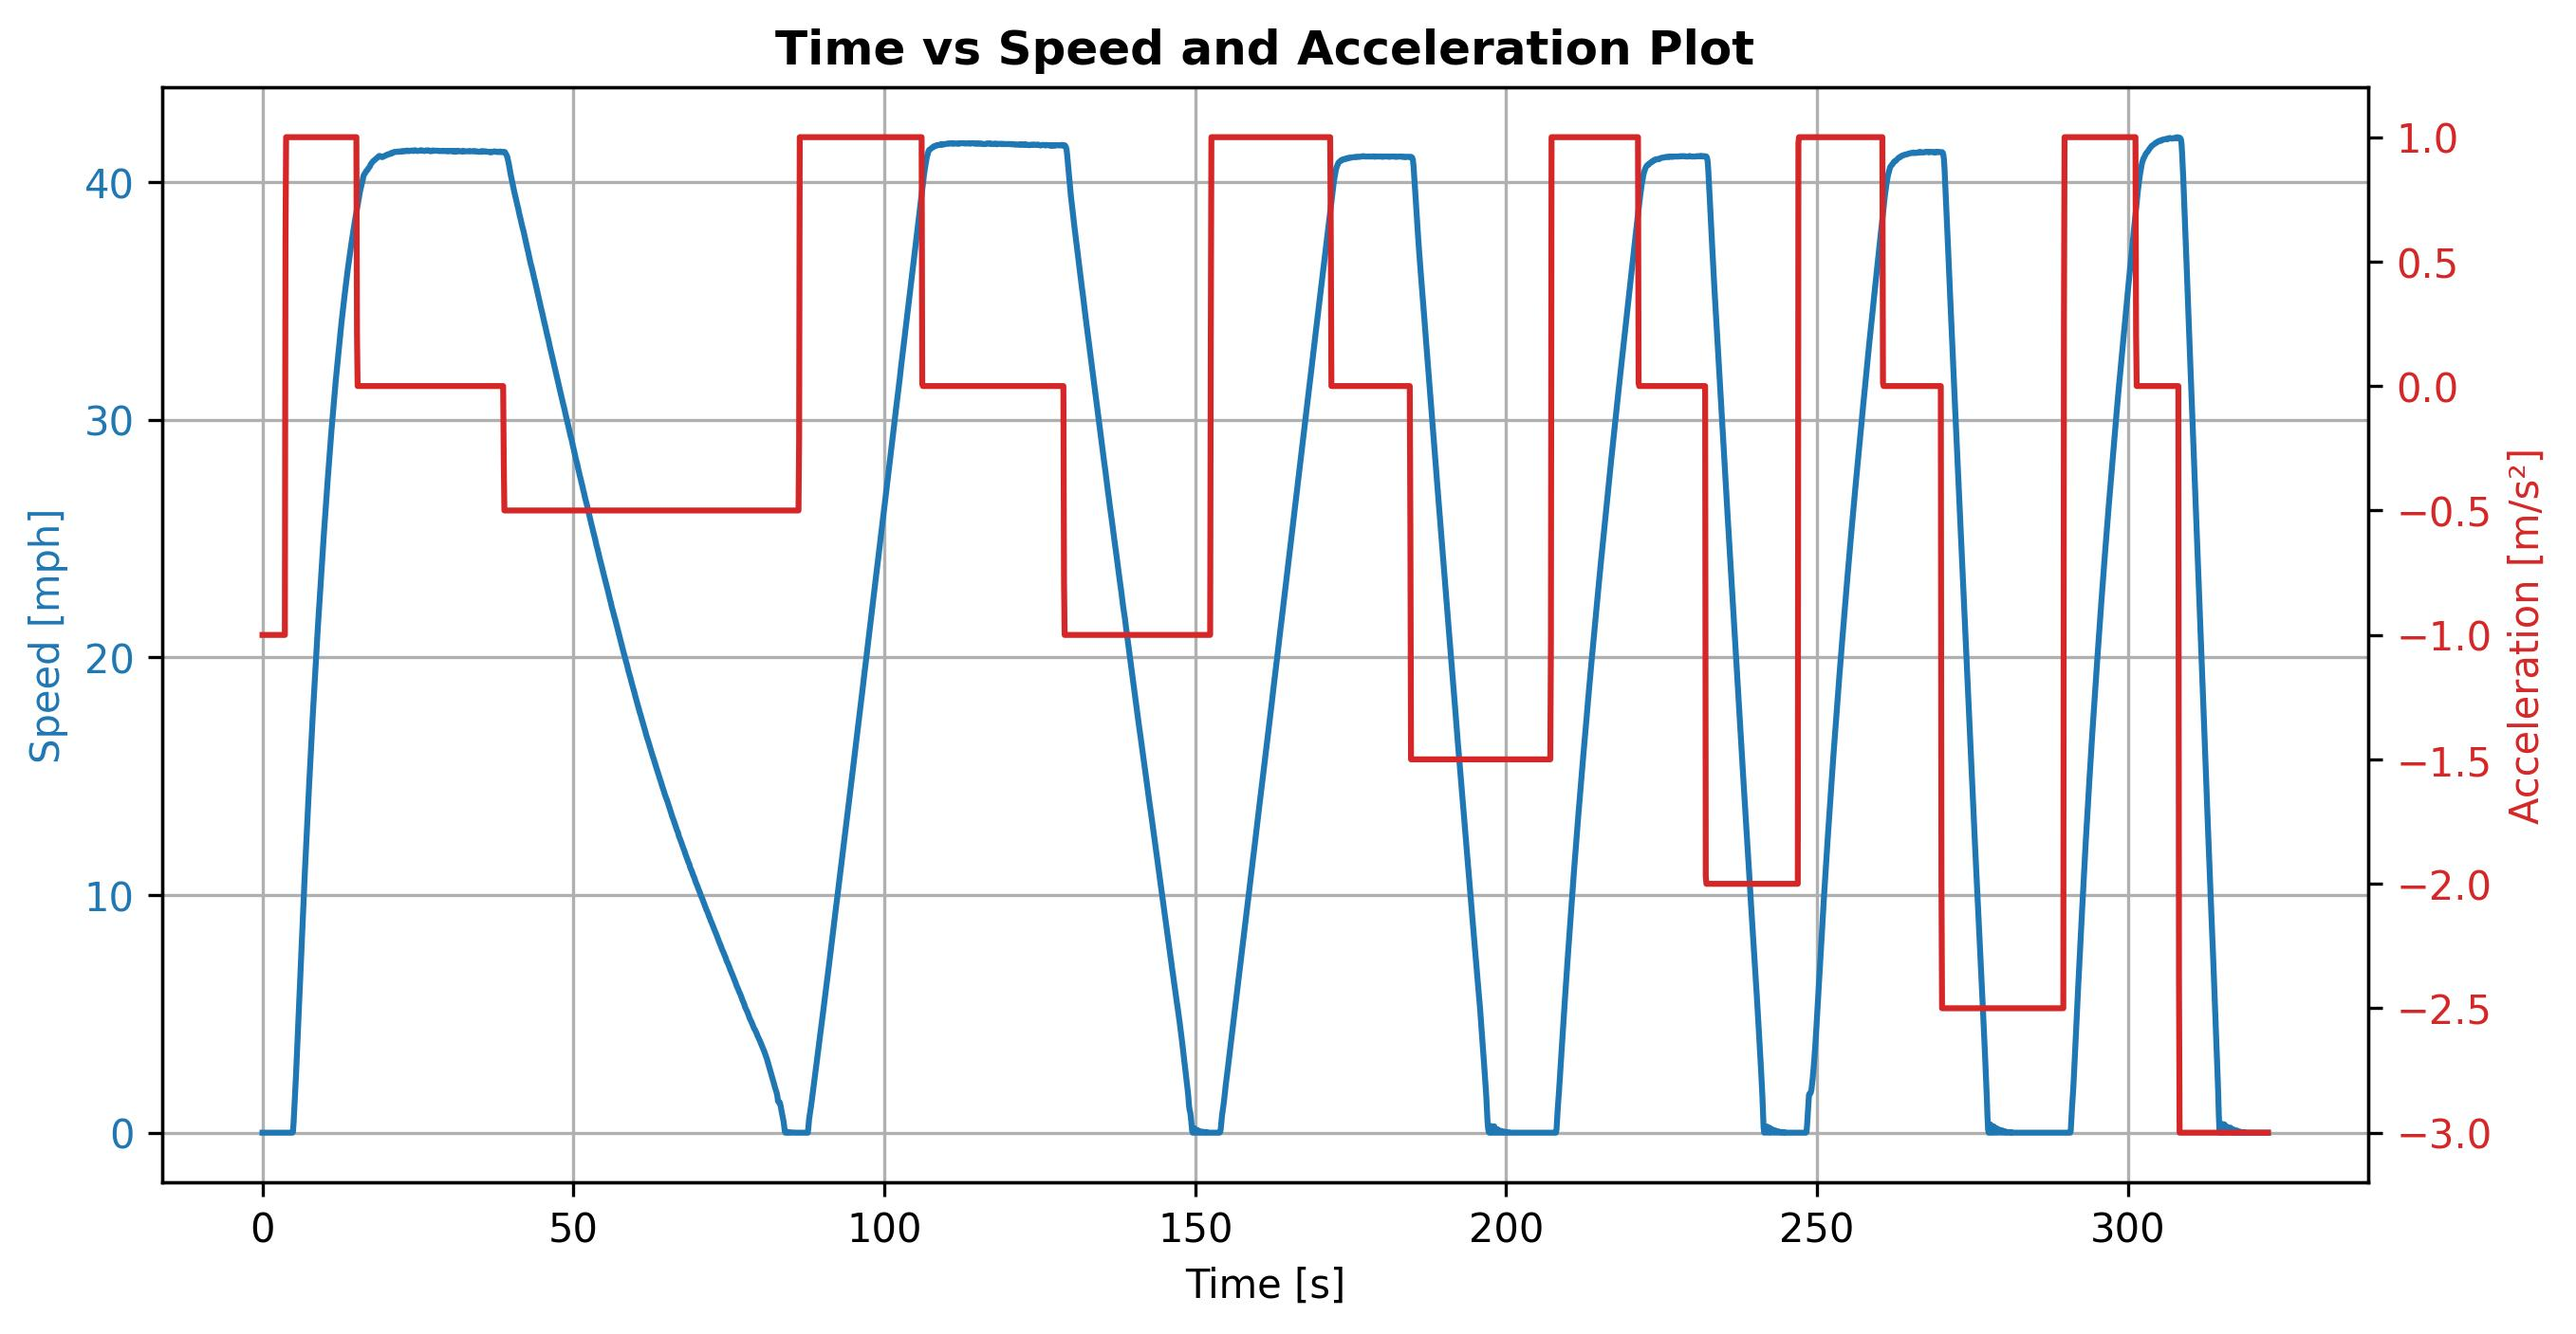
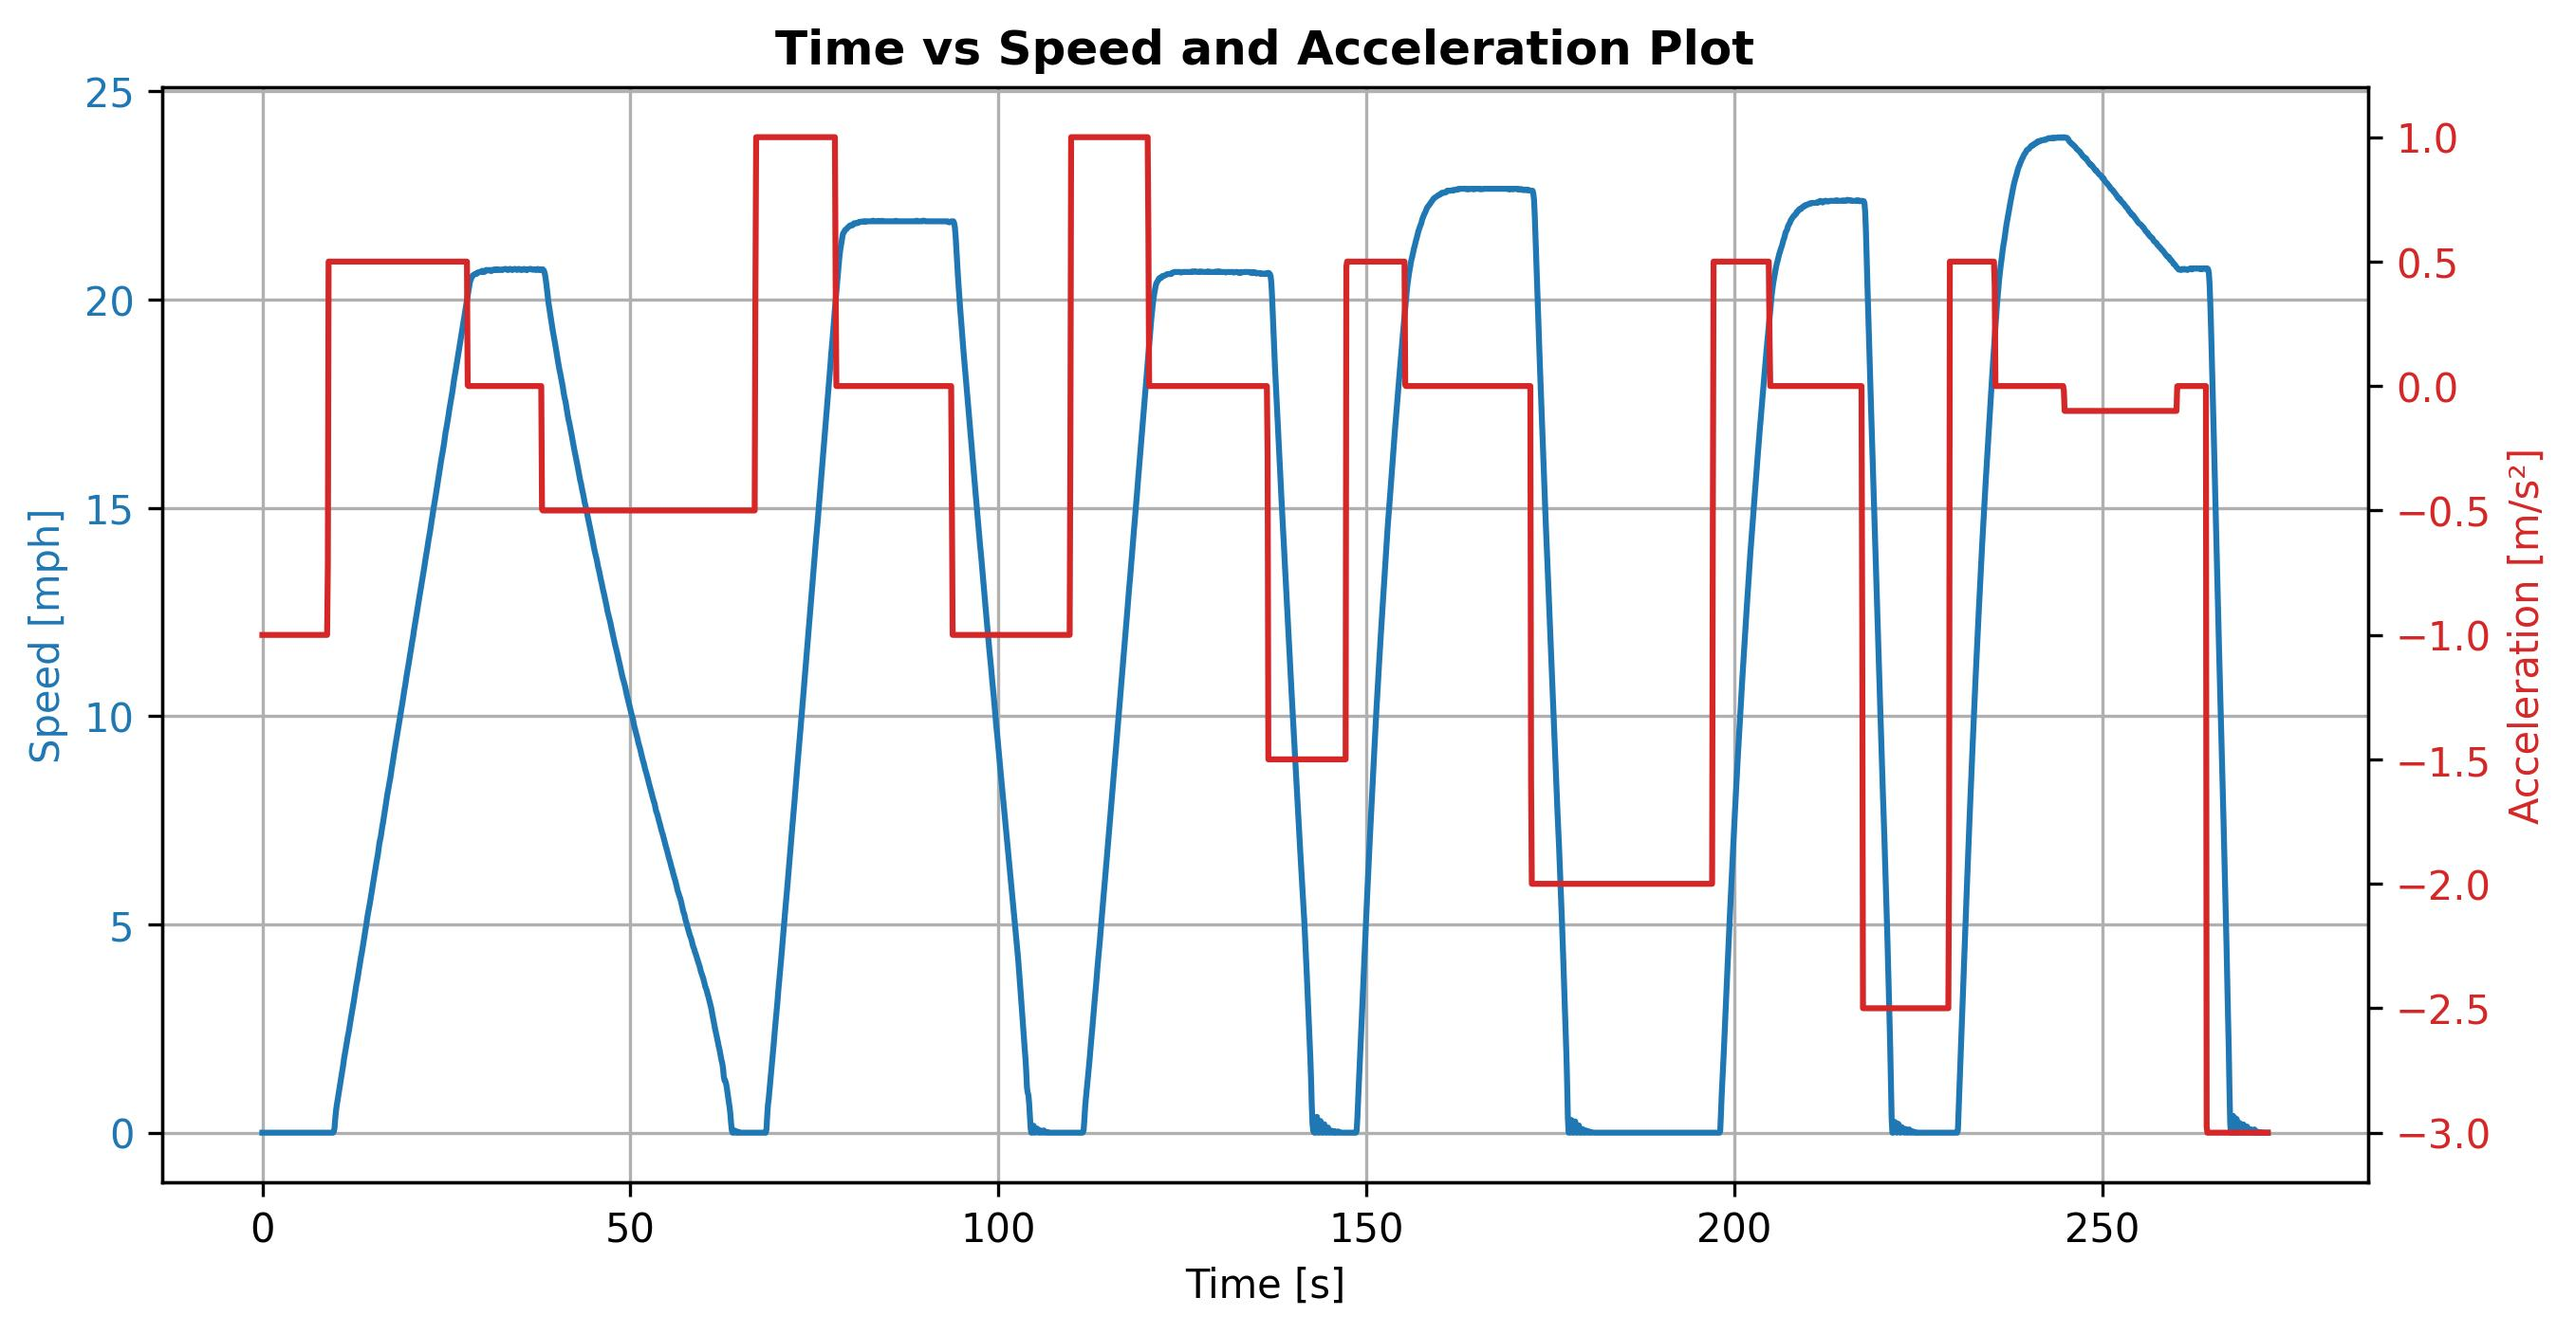
performed deceleration limit test

diff --git a/src/tools/xil-data-analysis/2023-Ford-F150-Lightning/DataManager.py b/src/tools/xil-data-analysis/2023-Ford-F150-Lightning/DataManager.py
@@ -317,14 +317,14 @@ class DataManager:
         # self.calculate_acceleration_achv_nonsmoothed()s
         # self.calculate_acceleration_achv_avg()
         # self.save_data_to_csv()
-        # self.plot_manager.plot_primary_yaxis(self.experimental_time_data, self.speed_data_mph, "Time [s]", "Speed [mph]", "Time vs Speed Plot", "decel-limit-40_mph_time_vs_speed")
-        # self.plot_manager.plot_primary_secondary_yaxis(False, self.experimental_time_data, self.speed_data_mph, self.accel_data_rqst, "Time [s]", "Speed [mph]", "Acceleration [m/s²]", "Time vs Speed and Acceleration Plot", "decel-limit-40_mph_time_vs_speed_Accel")      
-        self.plot_manager.plot_primary_secondary_yaxis(True, self.experimental_time_data, self.speed_data_mph, self.accel_data_rqst, "Time [s]", "Speed [mph]", "Acceleration [m/s²]", "Time vs Speed and Acceleration Plot", "decel-limit-40_mph_time_vs_speed_Accel_resize")      
+        # self.plot_manager.plot_primary_yaxis(self.experimental_time_data, self.speed_data_mph, "Time [s]", "Speed [mph]", "Time vs Speed Plot", "decel-limit-20_mph_time_vs_speed")
+        # self.plot_manager.plot_primary_secondary_yaxis(False, self.experimental_time_data, self.speed_data_mph, self.accel_data_rqst, "Time [s]", "Speed [mph]", "Acceleration [m/s²]", "Time vs Speed and Acceleration Plot", "decel-limit-20_mph_time_vs_speed_Accel")      
+        self.plot_manager.plot_primary_secondary_yaxis(True, self.experimental_time_data, self.speed_data_mph, self.accel_data_rqst, "Time [s]", "Speed [mph]", "Acceleration [m/s²]", "Time vs Speed and Acceleration Plot", "decel-limit-20_mph_time_vs_speed_Accel_resize")      
         
-        # self.plot_manager.plot_primary_secondary_yaxis(False, self.experimental_time_data, self.speed_data_mph, self.accel_achv, "Time [s]", "Speed [mph]", "Acceleration [m/s²]", "Time vs Speed and Acceleration Plot", "decel-limit-40_mph_time_vs_speed_Accel_achv")
-        # self.plot_manager.plot_two_data_on_secondary_yaxis(self.experimental_time_data, self.speed_data_mph, self.accel_data_rqst, self.accel_achv, "Time [s]", "Speed [mph]", "Acceleration [m/s²]",  "Time vs Speed and Acceleration Plot", "decel-limit-40_mph_time_vs_speed_Accel_rqst_achv")
+        # self.plot_manager.plot_primary_secondary_yaxis(False, self.experimental_time_data, self.speed_data_mph, self.accel_achv, "Time [s]", "Speed [mph]", "Acceleration [m/s²]", "Time vs Speed and Acceleration Plot", "decel-limit-20_mph_time_vs_speed_Accel_achv")
+        # self.plot_manager.plot_two_data_on_secondary_yaxis(self.experimental_time_data, self.speed_data_mph, self.accel_data_rqst, self.accel_achv, "Time [s]", "Speed [mph]", "Acceleration [m/s²]",  "Time vs Speed and Acceleration Plot", "decel-limit-20_mph_time_vs_speed_Accel_rqst_achv")
         # specific_accelerations = [0.25, -0.25]
-        # self.plot_manager.plot_specific_accelerations(self.experimental_time_data, self.speed_data_mph, self.accel_data_rqst, specific_accelerations, "Time [s]", "Speed [mph]", "Acceleration [m/s²]", "Time vs Speed and Acceleration Plot", "decel-limit-40_mph_time_vs_speed_Accel")
+        # self.plot_manager.plot_specific_accelerations(self.experimental_time_data, self.speed_data_mph, self.accel_data_rqst, specific_accelerations, "Time [s]", "Speed [mph]", "Acceleration [m/s²]", "Time vs Speed and Acceleration Plot", "decel-limit-20_mph_time_vs_speed_Accel")
 '''##############################################
                    Unit testing
 ##############################################'''
